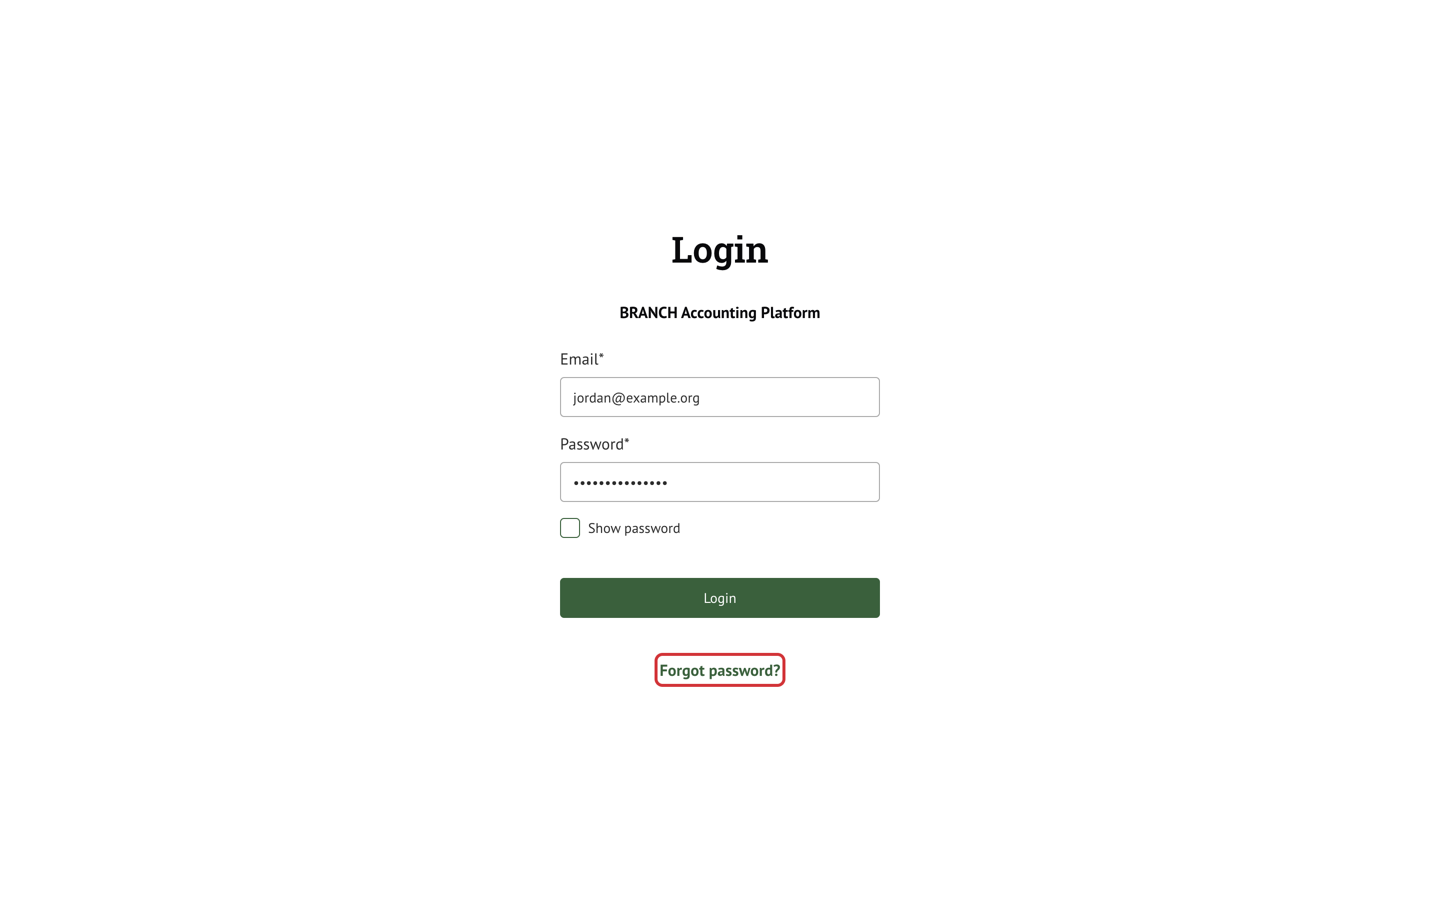
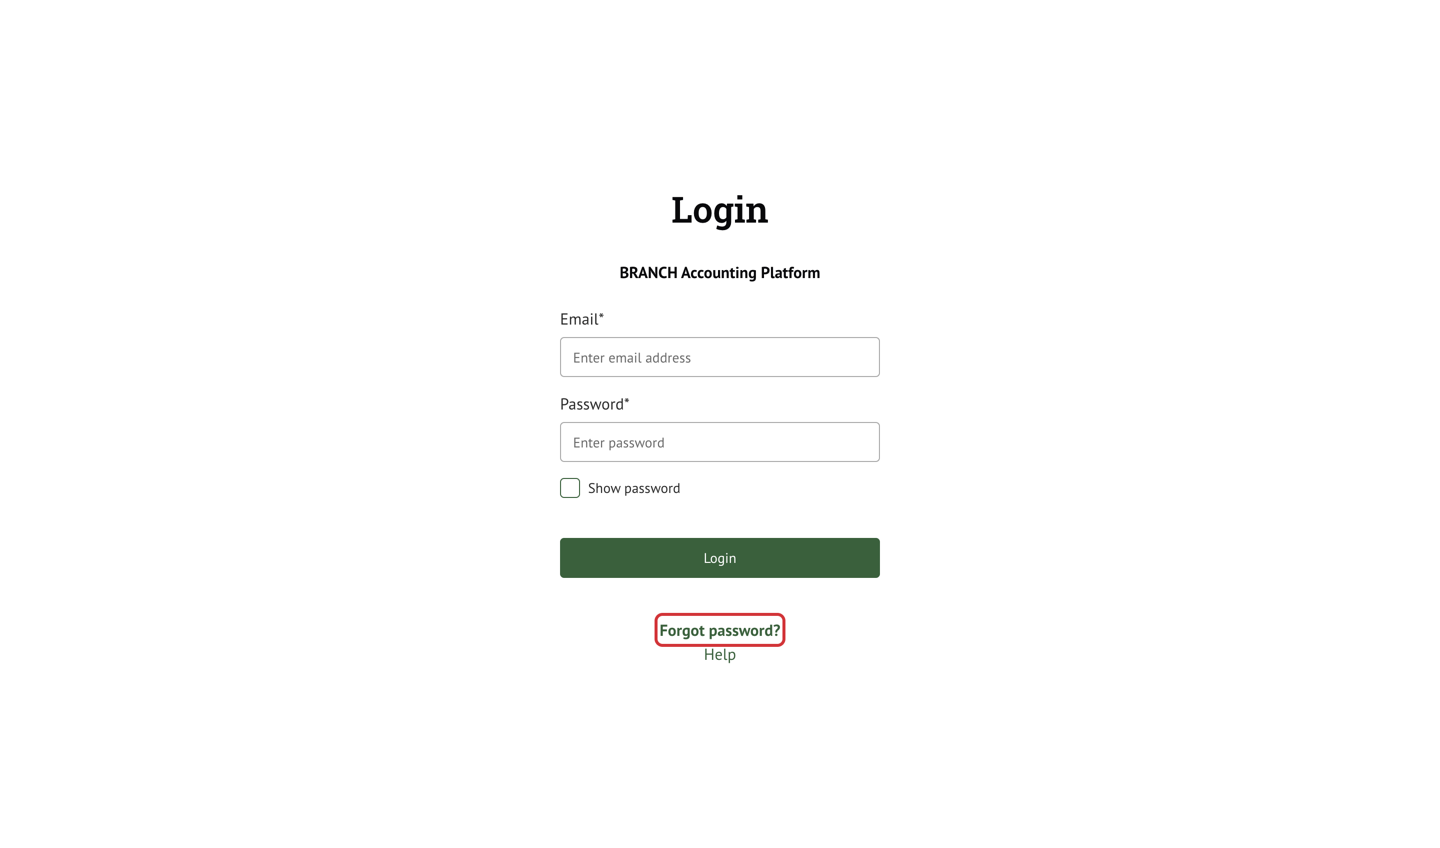
fix(frontend): center the forgot and reset password pages (#418)
* fix(frontend): center the forgot and reset password pages

Neither page had the full-height centered wrapper the login page uses,
so their content rendered flush left with hard-coded margins. Both now
share the login layout, and the request step is a real form so Enter
submits it.

* docs(help): refresh password reset screenshots

Retake the login and reset screenshots against the fixed layout, add
one for the code-and-new-password step, and restore the AGENTS.md
guarding paragraph the help-pages note had split.

---------

diff --git a/apps/frontend/src/app/forgot-password/page.tsx b/apps/frontend/src/app/forgot-password/page.tsx
@@ -70,81 +70,92 @@ export default function ForgotPasswordPage() {
 
     if (step === 'done') {
         return (
-            <div className="flex flex-col items-center text-center w-90">
-                <div className="flex flex-col items-start gap-6">
-                    <h1 className="![font-family:var(--font-heading)] !text-[36px] !font-semibold">Password Changed</h1>
-                    <h5 className="![font-family:var(--font-body)] !text-[16px] !font-bold text-center !text-core-black !mb-6">
+            <div className="flex min-h-screen items-center justify-center px-4">
+                <div className="flex flex-col items-center text-center w-80">
+                    <h1 className="![font-family:var(--font-heading)] !text-[36px] !font-semibold !mb-6">Password Changed</h1>
+                    <h5 className="![font-family:var(--font-body)] !text-[16px] !mb-10">
                         Your password has been successfully changed!
                     </h5>
+                    <Link
+                        href="/login"
+                        className="![font-family:var(--font-body)] !rounded !bg-core-green !text-core-white w-full !px-4 !py-1.5 !text-center !font-bold"
+                    >
+                        Back to login
+                    </Link>
                 </div>
-                <Link
-                    href="/login"
-                    className="![font-family:var(--font-body)] !rounded !bg-core-green !text-core-white w-full !px-4 !py-1.5 !mb-10 !text-center !font-bold"
-                >
-                    Back to login
-                </Link>
             </div>
         );
     }
 
     if (step === 'confirm') {
         return (
-            <div className="flex flex-col items-center text-center">
-                <h5 className="![font-family:var(--font-body)] !text-[16px] !mb-6">
-                    We sent a verification code to {email}. Enter it below with your new password.
-                </h5>
-                <SetPasswordForm
-                    includeCode
-                    onSubmit={handleConfirm}
-                    error={confirmError}
-                    isLoading={isLoading}
-                />
-                <button
-                    type="button"
-                    className="![font-family:var(--font-body)] !text-[16px] !font-bold !text-core-green !py-3 disabled:!text-black-500 disabled:cursor-not-allowed"
-                    onClick={handleResend}
-                    disabled={isLoading}
-                >
-                    Resend code
-                </button>
-                <Link href="/login" className="![font-family:var(--font-body)] !text-[16px] !font-bold !text-core-green !py-3">
-                    Back to login
-                </Link>
+            <div className="flex min-h-screen items-center justify-center px-4">
+                <div className="flex flex-col items-center text-center w-80">
+                    <h5 className="![font-family:var(--font-body)] !text-[16px] !mb-6">
+                        We sent a verification code to {email}. Enter it below with your new password.
+                    </h5>
+                    <SetPasswordForm
+                        includeCode
+                        onSubmit={handleConfirm}
+                        error={confirmError}
+                        isLoading={isLoading}
+                    />
+                    <button
+                        type="button"
+                        className="![font-family:var(--font-body)] !text-[16px] !font-bold !text-core-green !py-3 disabled:!text-black-500 disabled:cursor-not-allowed"
+                        onClick={handleResend}
+                        disabled={isLoading}
+                    >
+                        Resend code
+                    </button>
+                    <Link href="/login" className="![font-family:var(--font-body)] !text-[16px] !font-bold !text-core-green !py-3">
+                        Back to login
+                    </Link>
+                </div>
             </div>
         );
     }
 
     return (
-        <div className="flex flex-col shrink-0 items-start gap-[30px]">
-            <div className="flex flex-col items-start gap-6">
-                <h1 className="![font-family:var(--font-heading)] !text-[36px] !font-bold">
-                    Forgot your Password?
+        <div className="flex min-h-screen items-center justify-center px-4">
+            <form
+                onSubmit={(e) => {
+                    e.preventDefault();
+                    handleRequestReset();
+                }}
+                className="flex flex-col items-center text-center w-80"
+            >
+                <h1 className="![font-family:var(--font-heading)] !text-[36px] !font-semibold !mb-6">
+                    Forgot password?
                 </h1>
-                <h5 className="![font-family:var(--font-body)] !text-[16px] !font-bold text-center w-[312px] !ml-[41px] !text-core-black">
-                    Please enter the email address you&apos;d like your password reset information sent to
+                <h5 className="![font-family:var(--font-body)] !text-[16px] !mb-6">
+                    Enter your email and we&apos;ll send you a code to reset your password.
                 </h5>
-            </div>
-            <div className="flex flex-col items-start ml-[26px] gap-9">
-                <TextInputField
-                    label="Email"
-                    required
-                    placeholder="Enter email address"
-                    errorMessage={emailError}
-                    isError={!!emailError}
-                    value={email}
-                    onChange={(value) => setEmail(value)}
-                />
+                <div className="flex flex-col w-full !mb-10">
+                    <TextInputField
+                        label="Email"
+                        required
+                        placeholder="Enter email address"
+                        errorMessage={emailError}
+                        isError={!!emailError}
+                        value={email}
+                        onChange={(value) => setEmail(value)}
+                        type="email"
+                        name="email"
+                        autoComplete="username"
+                    />
+                </div>
                 <Button
-                    className="![font-family:var(--font-body)] !text-[16px] !font-bold !bg-core-green !text-core-white !py-3 !px-[110px] !rounded !border-0"
-                    onClick={handleRequestReset}
+                    type="submit"
+                    className="![font-family:var(--font-body)] !rounded !bg-core-green !text-core-white w-full !px-4 !py-1.5 !mb-10"
                     loading={isLoading}
                 >
                     Request reset code
                 </Button>
-                <Link href="/login" className="![font-family:var(--font-body)] !text-[16px] !font-bold !text-core-green !py-3 !px-[127px]">
+                <Link href="/login" className="!text-core-green !font-bold ![font-family:var(--font-body)] !text-[16px]">
                     Back to login
                 </Link>
-            </div>
+            </form>
         </div>
     );
 }

diff --git a/apps/frontend/src/app/reset-password/page.tsx b/apps/frontend/src/app/reset-password/page.tsx
@@ -43,7 +43,8 @@ function ResetPasswordContent() {
     // strings would just produce a confusing server-side error.
     if (!email || !code) {
         return (
-            <div className="flex flex-col items-center text-center w-90 gap-6">
+            <div className="flex min-h-screen items-center justify-center px-4">
+            <div className="flex flex-col items-center text-center w-80 gap-6">
                 <h1 className="![font-family:var(--font-heading)] !text-[36px] !font-semibold">
                     Link expired
                 </h1>
@@ -58,34 +59,37 @@ function ResetPasswordContent() {
                     Request a new reset link
                 </Link>
             </div>
+            </div>
         );
     }
 
     if (submitted) {
         return (
-            <div className="flex flex-col items-center text-center w-90">
-                <div className="flex flex-col items-start gap-6">
-                    <h1 className="![font-family:var(--font-heading)] !text-[36px] !font-semibold">Password Changed</h1>
-                    <h5 className="![font-family:var(--font-body)] !text-[16px] !font-bold text-center !text-core-black !mb-6">
-                        Your password has been successfully changed!
-                    </h5>
-                </div>
+            <div className="flex min-h-screen items-center justify-center px-4">
+            <div className="flex flex-col items-center text-center w-80">
+                <h1 className="![font-family:var(--font-heading)] !text-[36px] !font-semibold !mb-6">Password Changed</h1>
+                <h5 className="![font-family:var(--font-body)] !text-[16px] !mb-10">
+                    Your password has been successfully changed!
+                </h5>
                 <Button
-                    className="![font-family:var(--font-body)] !rounded !bg-core-green !text-core-white w-full !px-4 !py-1.5 !mb-10"
+                    className="![font-family:var(--font-body)] !rounded !bg-core-green !text-core-white w-full !px-4 !py-1.5"
                     onClick={() => router.push('/login')}
                 >
                     Back to login
                 </Button>
             </div>
+            </div>
         );
     }
 
     return (
-        <SetPasswordForm
-            onSubmit={handleResetPassword}
-            error={error}
-            isLoading={isLoading}
-        />
+        <div className="flex min-h-screen items-center justify-center px-4">
+            <SetPasswordForm
+                onSubmit={handleResetPassword}
+                error={error}
+                isLoading={isLoading}
+            />
+        </div>
     );
 }
 

diff --git a/apps/frontend/src/app/help/guides.ts b/apps/frontend/src/app/help/guides.ts
@@ -56,8 +56,11 @@ export const GUIDES: Guide[] = [
         image: '/help/reset-password/request-code.png',
         alt: 'Forgot password page with Request reset code highlighted',
       },
-      { text: 'Enter the code from your email and a new password.' },
-      { text: 'Click Reset Password.' },
+      {
+        text: 'Enter the code from your email and a new password, then click Reset Password.',
+        image: '/help/reset-password/new-password.png',
+        alt: 'Reset password form with Reset Password highlighted',
+      },
     ],
   },
   {

diff --git a/apps/frontend/AGENTS.md b/apps/frontend/AGENTS.md
@@ -64,9 +64,9 @@ Import direction is one-way and must stay that way: `api.ts` ← `authClient.ts`
 
 **Refresh.** Access tokens last one hour. `AuthProvider` schedules a refresh ~2 minutes before expiry, and `authedFetch` refreshes reactively on a 401. Refresh is single-flight, so a burst of concurrent 401s produces one `POST /auth/refresh`. Cognito does not re-issue a refresh token, so `saveTokens` leaves the stored one alone when the response omits it.
 
-**Guarding.** `src/app/components/AuthGate.tsx`, mounted once in `providers.tsx`, is the app's only route guard — static export means `middleware.ts` would never run. `src/lib/routes.ts` classifies routes and is **protected-by-default**: a new page under `src/app/` is guarded without opting in. Public routes are `/login`, `/forgot-password`, `/reset-password` (authenticated users get bounced off them). Open routes (`/help/**`) render for everyone, signed in or not, and skip the Chakra/Auth shell in `providers.tsx`: they are prerendered with real content, and Chakra's Emotion styles inline into SSR HTML and break hydration.
+**Guarding.** `src/app/components/AuthGate.tsx`, mounted once in `providers.tsx`, is the app's only route guard — static export means `middleware.ts` would never run. `src/lib/routes.ts` classifies routes and is **protected-by-default**: a new page under `src/app/` is guarded without opting in. Public routes are `/login`, `/forgot-password`, `/reset-password` (authenticated users get bounced off them). Open routes (`/help/**`) render for everyone, signed in or not, and skip the Chakra/Auth shell in `providers.tsx`: they are prerendered with real content, and Chakra's Emotion styles inline into SSR HTML and break hydration. Which permission a page needs comes from `PAGE_PERMISSIONS` in `@branch/rbac`, so AuthGate, the Navbar and the lambdas all read one table. Always compare paths through `normalizePath` — `trailingSlash: true` means production sees `/login/` where dev and tests see `/login`. The public auth pages (`/login`, `/forgot-password`, `/reset-password`) share one layout: a `min-h-screen` centered wrapper around a `w-80` column; copy it for any new one.
 
-**Help pages.** `/help` is the user guide, served at `branchaccounting.org/help`. Guides are data in `src/app/help/guides.ts` (numbered one-line steps; `[label](/path)` makes a link) and `[slug]/page.tsx` prerenders one page per guide via `generateStaticParams`. Screenshots live in `public/help/<guide>/`; `test/app/HelpGuides.test.ts` fails on a missing image or a link to a page that does not exist. Retake screenshots against a local stack with seeded demo data, never production. Which permission a page needs comes from `PAGE_PERMISSIONS` in `@branch/rbac`, so AuthGate, the Navbar and the lambdas all read one table. Always compare paths through `normalizePath` — `trailingSlash: true` means production sees `/login/` where dev and tests see `/login`.
+**Help pages.** `/help` is the user guide, served at `branchaccounting.org/help`. Guides are data in `src/app/help/guides.ts` (numbered one-line steps; `[label](/path)` makes a link) and `[slug]/page.tsx` prerenders one page per guide via `generateStaticParams`. Screenshots live in `public/help/<guide>/`; `test/app/HelpGuides.test.ts` fails on a missing image or a link to a page that does not exist. Retake screenshots against a local stack with seeded demo data, never production.
 
 ## Permissions
 
